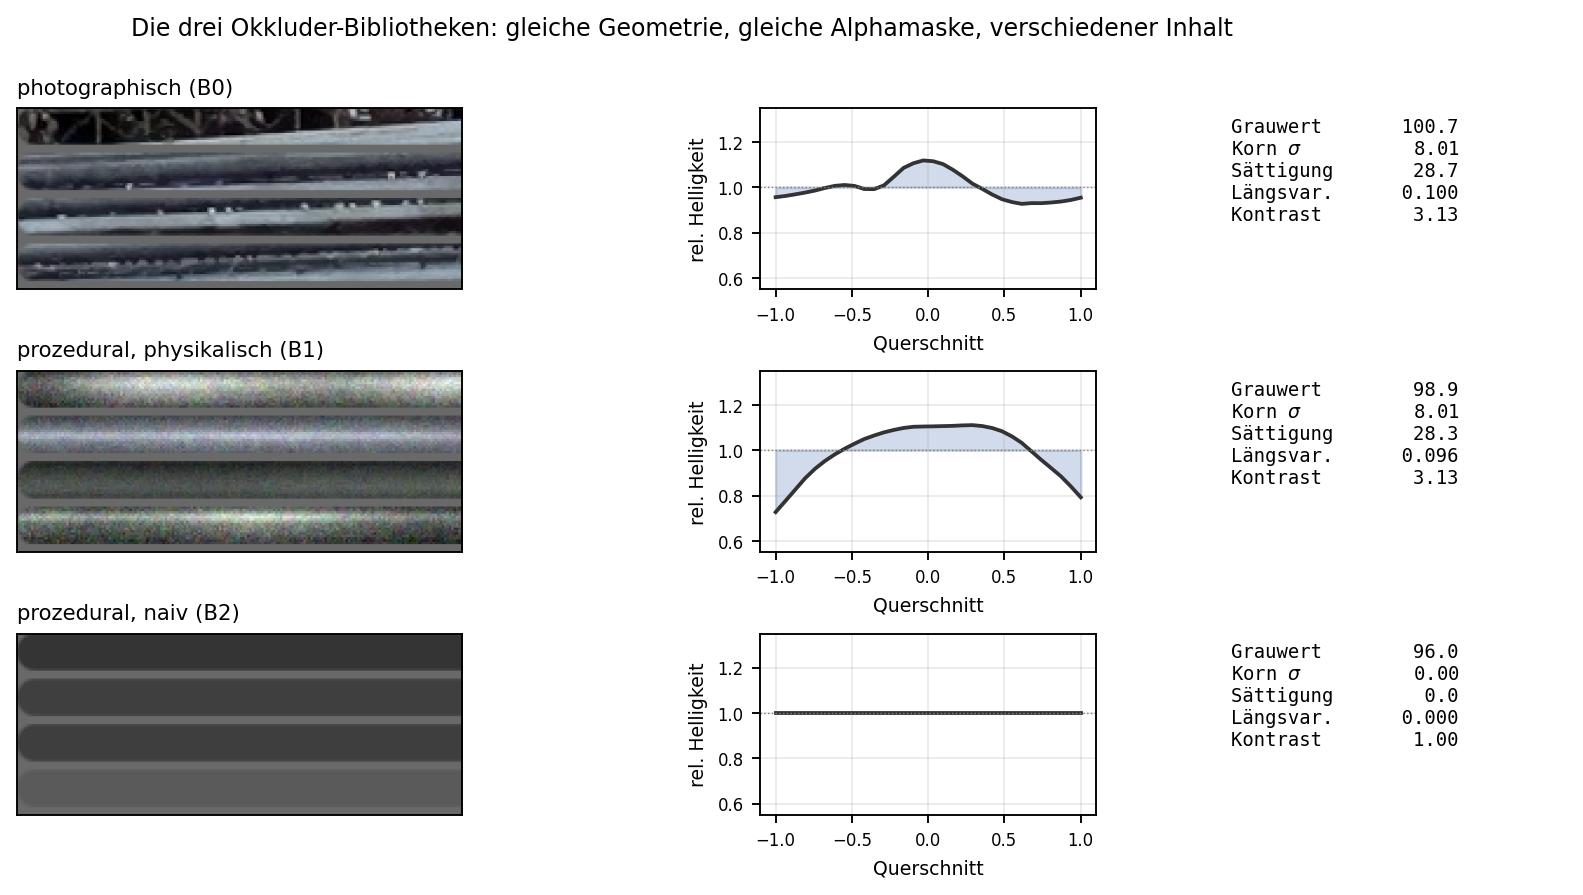
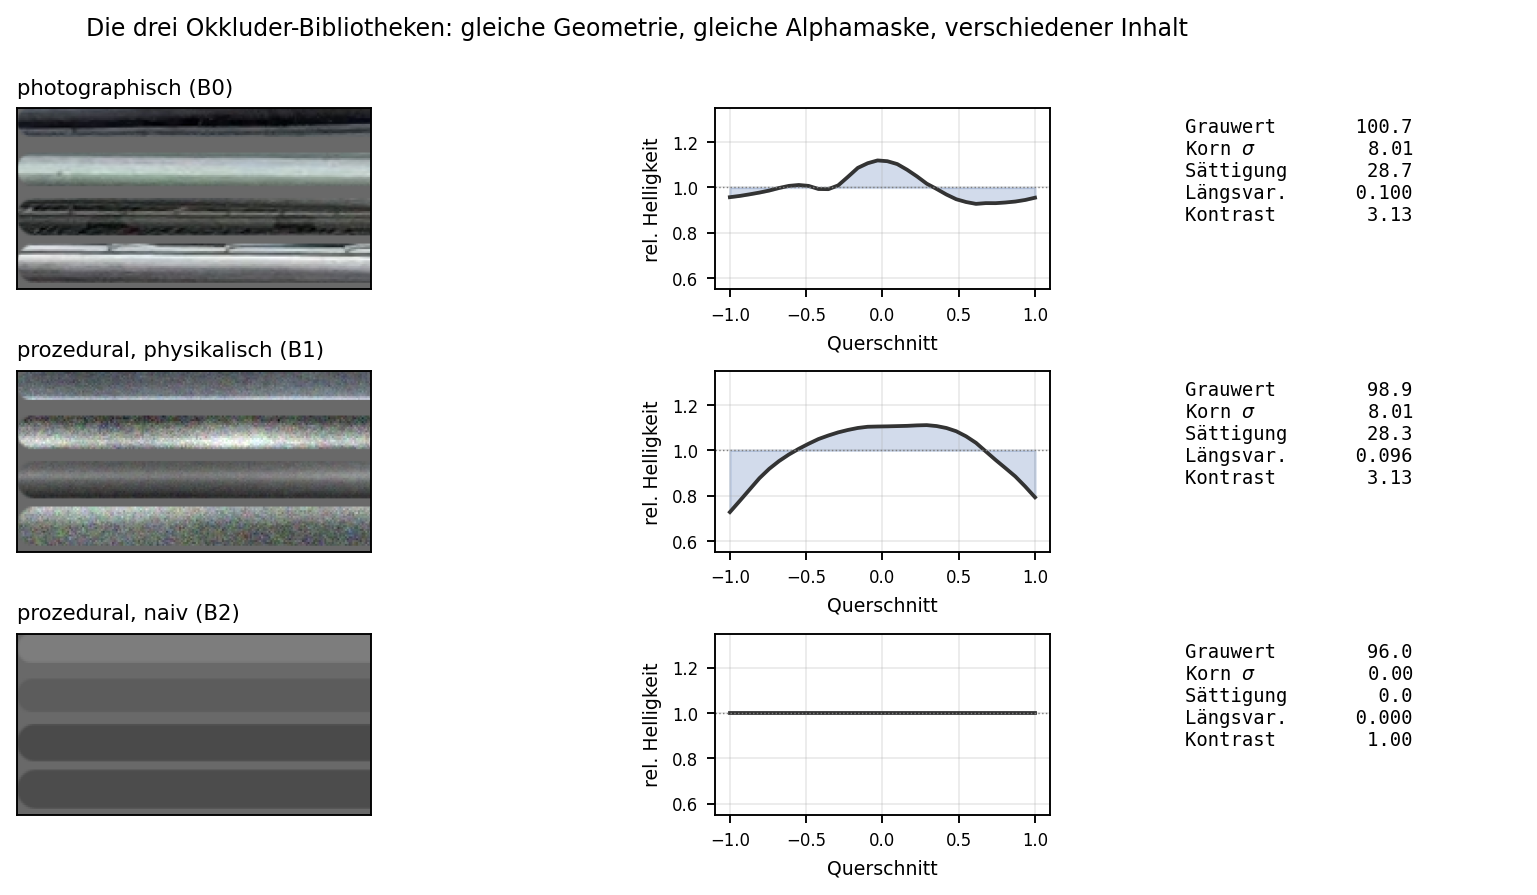
waehle repraesentative Beispielstangen fuer Abbildung 8.2
fig_balken() nahm die ersten vier Stangen alphabetisch. Die treffen mit
bar_000 bis bar_003 den schmalsten Ausschnitt der Bibliothek: alle vier
sind 16 px dick und liegen zwischen Grauwert 82 und 90, waehrend die 56
Eintraege 16 bis 21 px und 48 bis 163 Grauwerte abdecken.

Die Auswahl steht jetzt als BAR_BEISPIELE bei den uebrigen
Darstellungsparametern und nimmt je eine Stange aus den vier
Dickenklassen (bar_007/019/048/037, Grauwerte 50/163/70/143). Sichtbar
wird das vor allem im Feld B2: die naiven Balken variieren im Grundton,
haben aber weiterhin keinen Querschnittsverlauf -- genau die Aussage der
Abbildung.

Dieselben Namen gelten fuer alle drei Bibliotheken; die Stangen sind
paarweise gleich gross und tragen dieselbe Alphamaske, unterschiedliche
Indizes je Arm wuerden den gepaarten Aufbau aufheben.

diff --git a/src/report_neu.py b/src/report_neu.py
@@ -51,6 +51,13 @@ B_ARME = [("A1_baseline", "B0 photogr."),
           ("B2_prozedural_naiv", "B2 naiv")]
 CS = {"val": "#1f77b4", "test": "#d62728"}
 
+# Beispielstangen der Bibliotheksabbildung. Bewusst ueber Dicke (16/18/20/21 px)
+# und Grauwert (50/163/70/143) gestreut, damit die vier Kacheln die Bandbreite
+# der Bibliothek zeigen und nicht nur ihren Anfang. Dieselben Namen gelten fuer
+# alle drei Bibliotheken -- die Stangen sind paarweise gleich gross und tragen
+# dieselbe Alphamaske.
+BAR_BEISPIELE = ["bar_007", "bar_019", "bar_048", "bar_037"]
+
 
 def _load(name):
     p = os.path.join(EXP, name)
@@ -84,7 +91,7 @@ def fig_balken():
     gs = fig.add_gridspec(3, 3, width_ratios=[2.3, 1.0, 1.0], hspace=0.45,
                           wspace=0.28)
     for i, ((d, titel), key) in enumerate(zip(libs, keys)):
-        paths = sorted(glob.glob(os.path.join(d, "*.png")))[:4]
+        paths = [os.path.join(d, n + ".png") for n in BAR_BEISPIELE]
         tiles = []
         for p in paths:
             im = cv2.imread(p, cv2.IMREAD_UNCHANGED)
